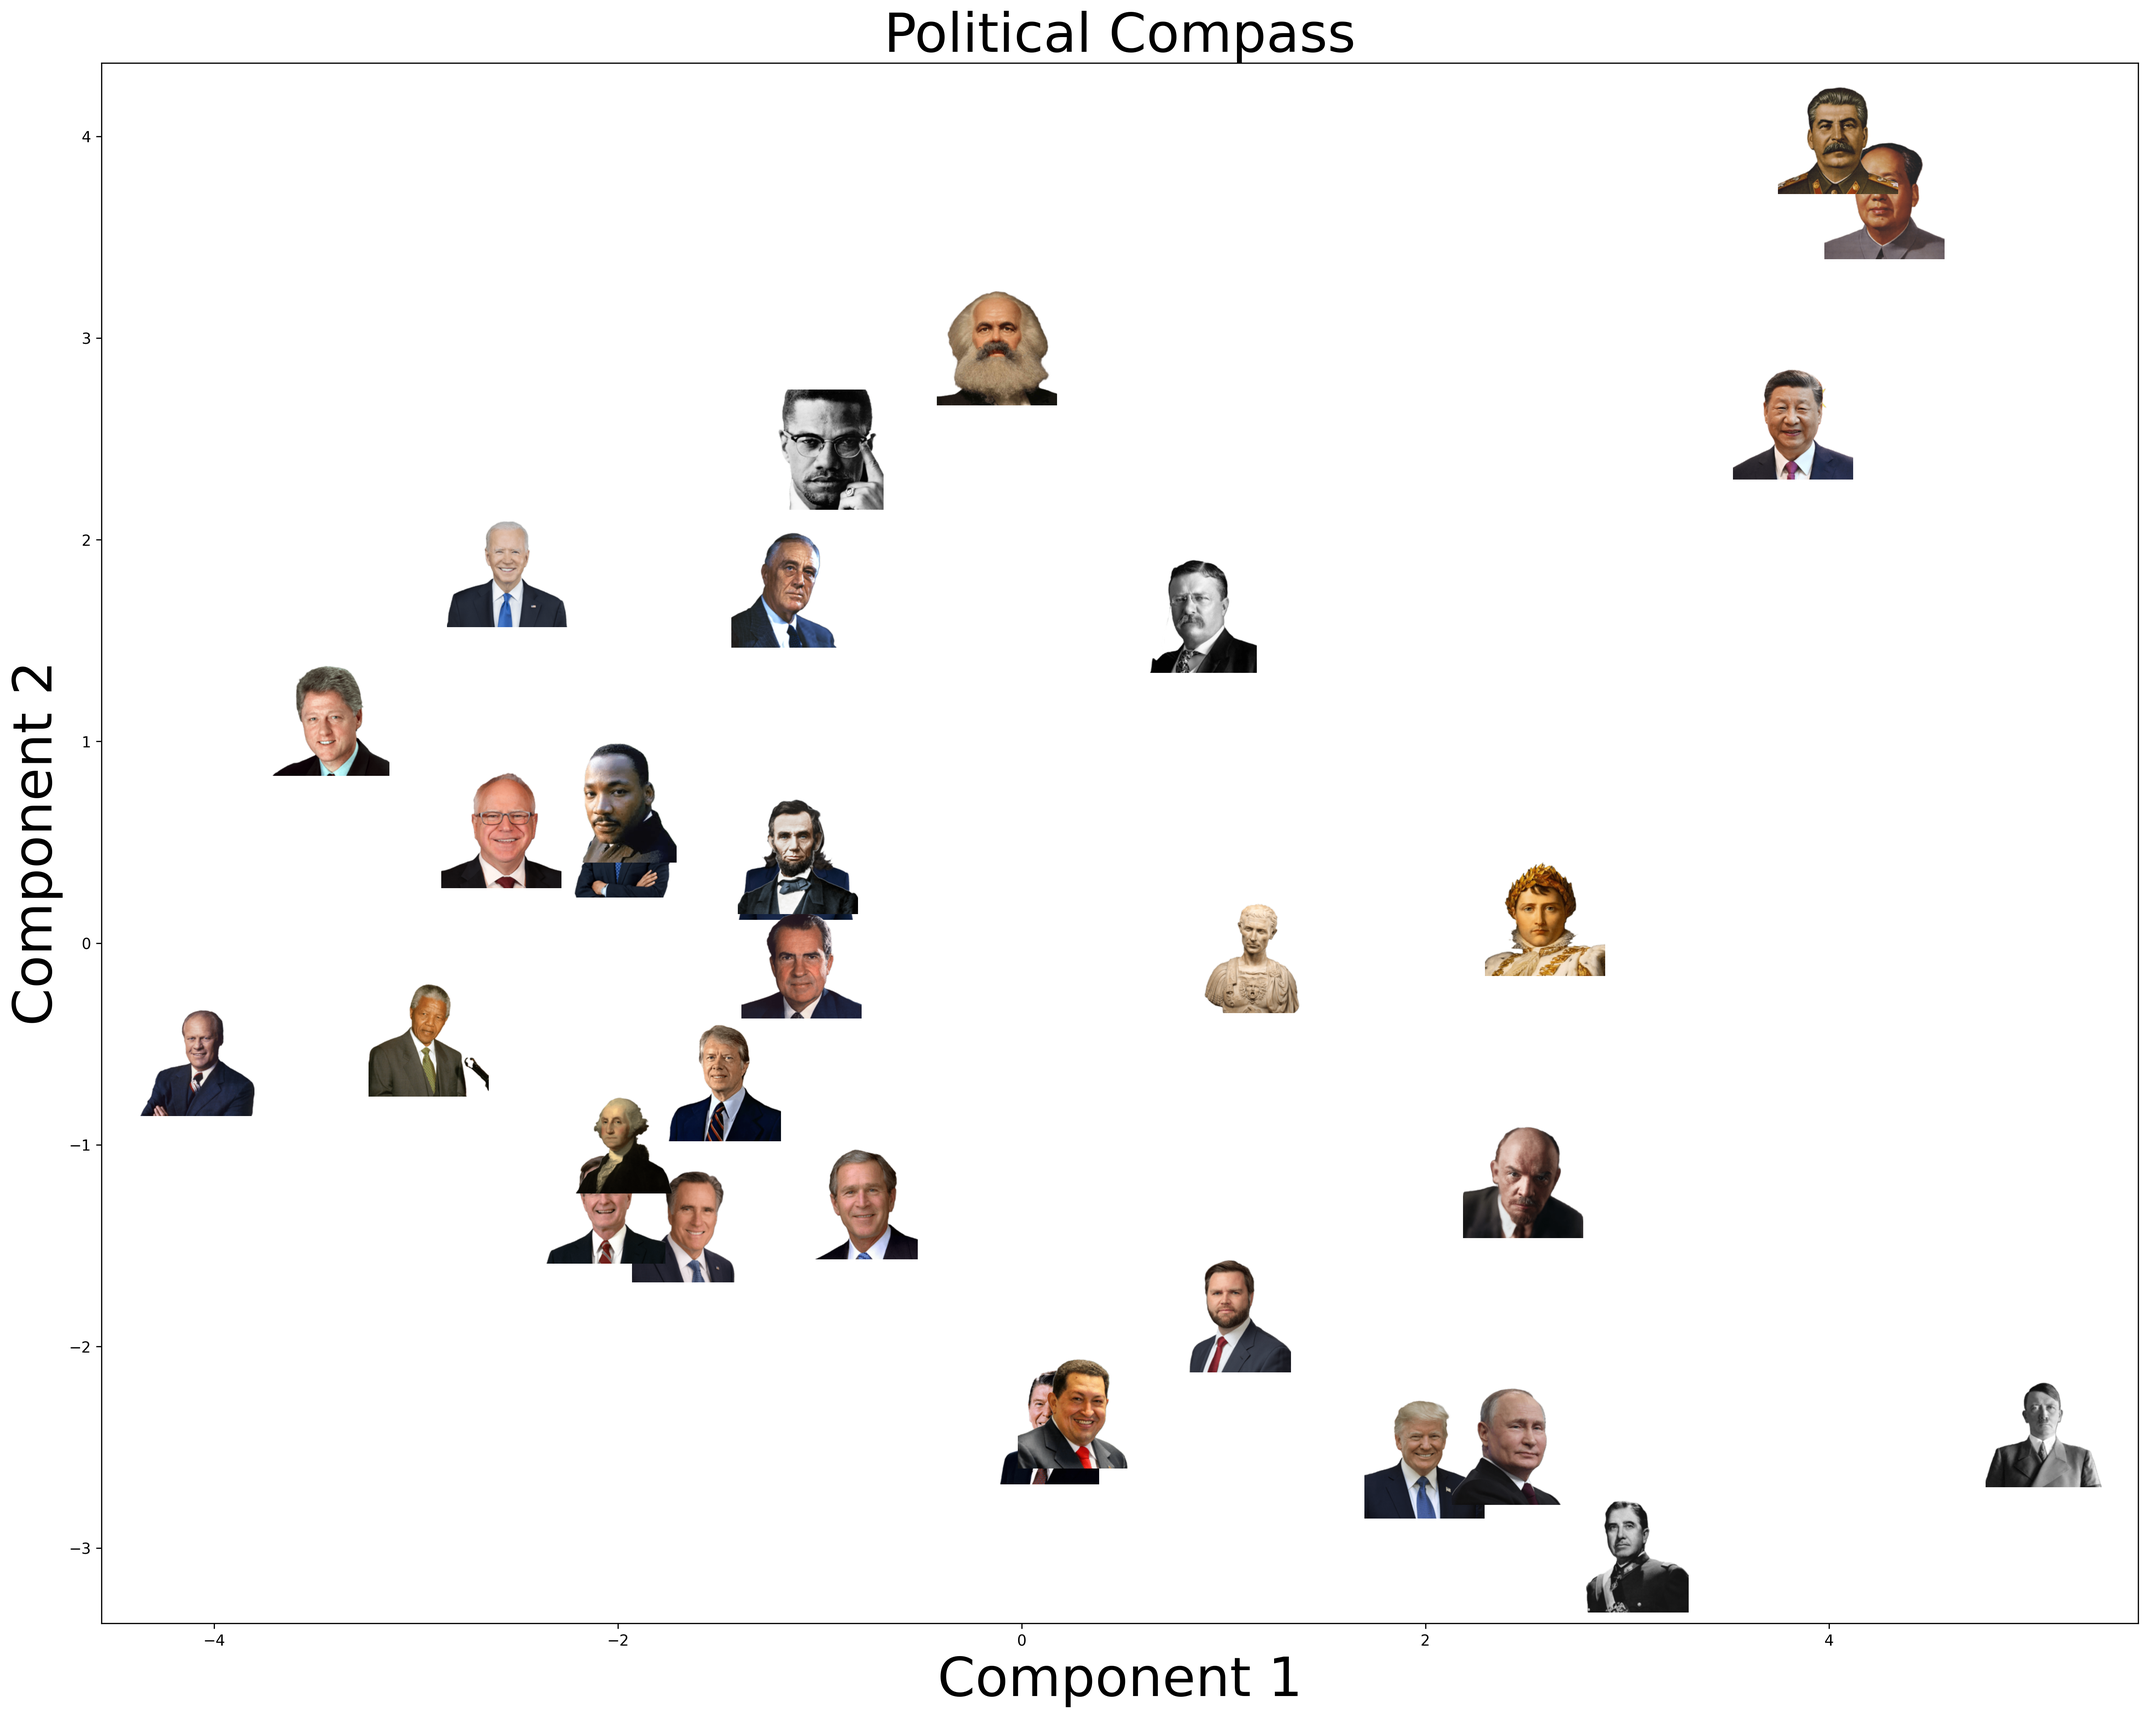
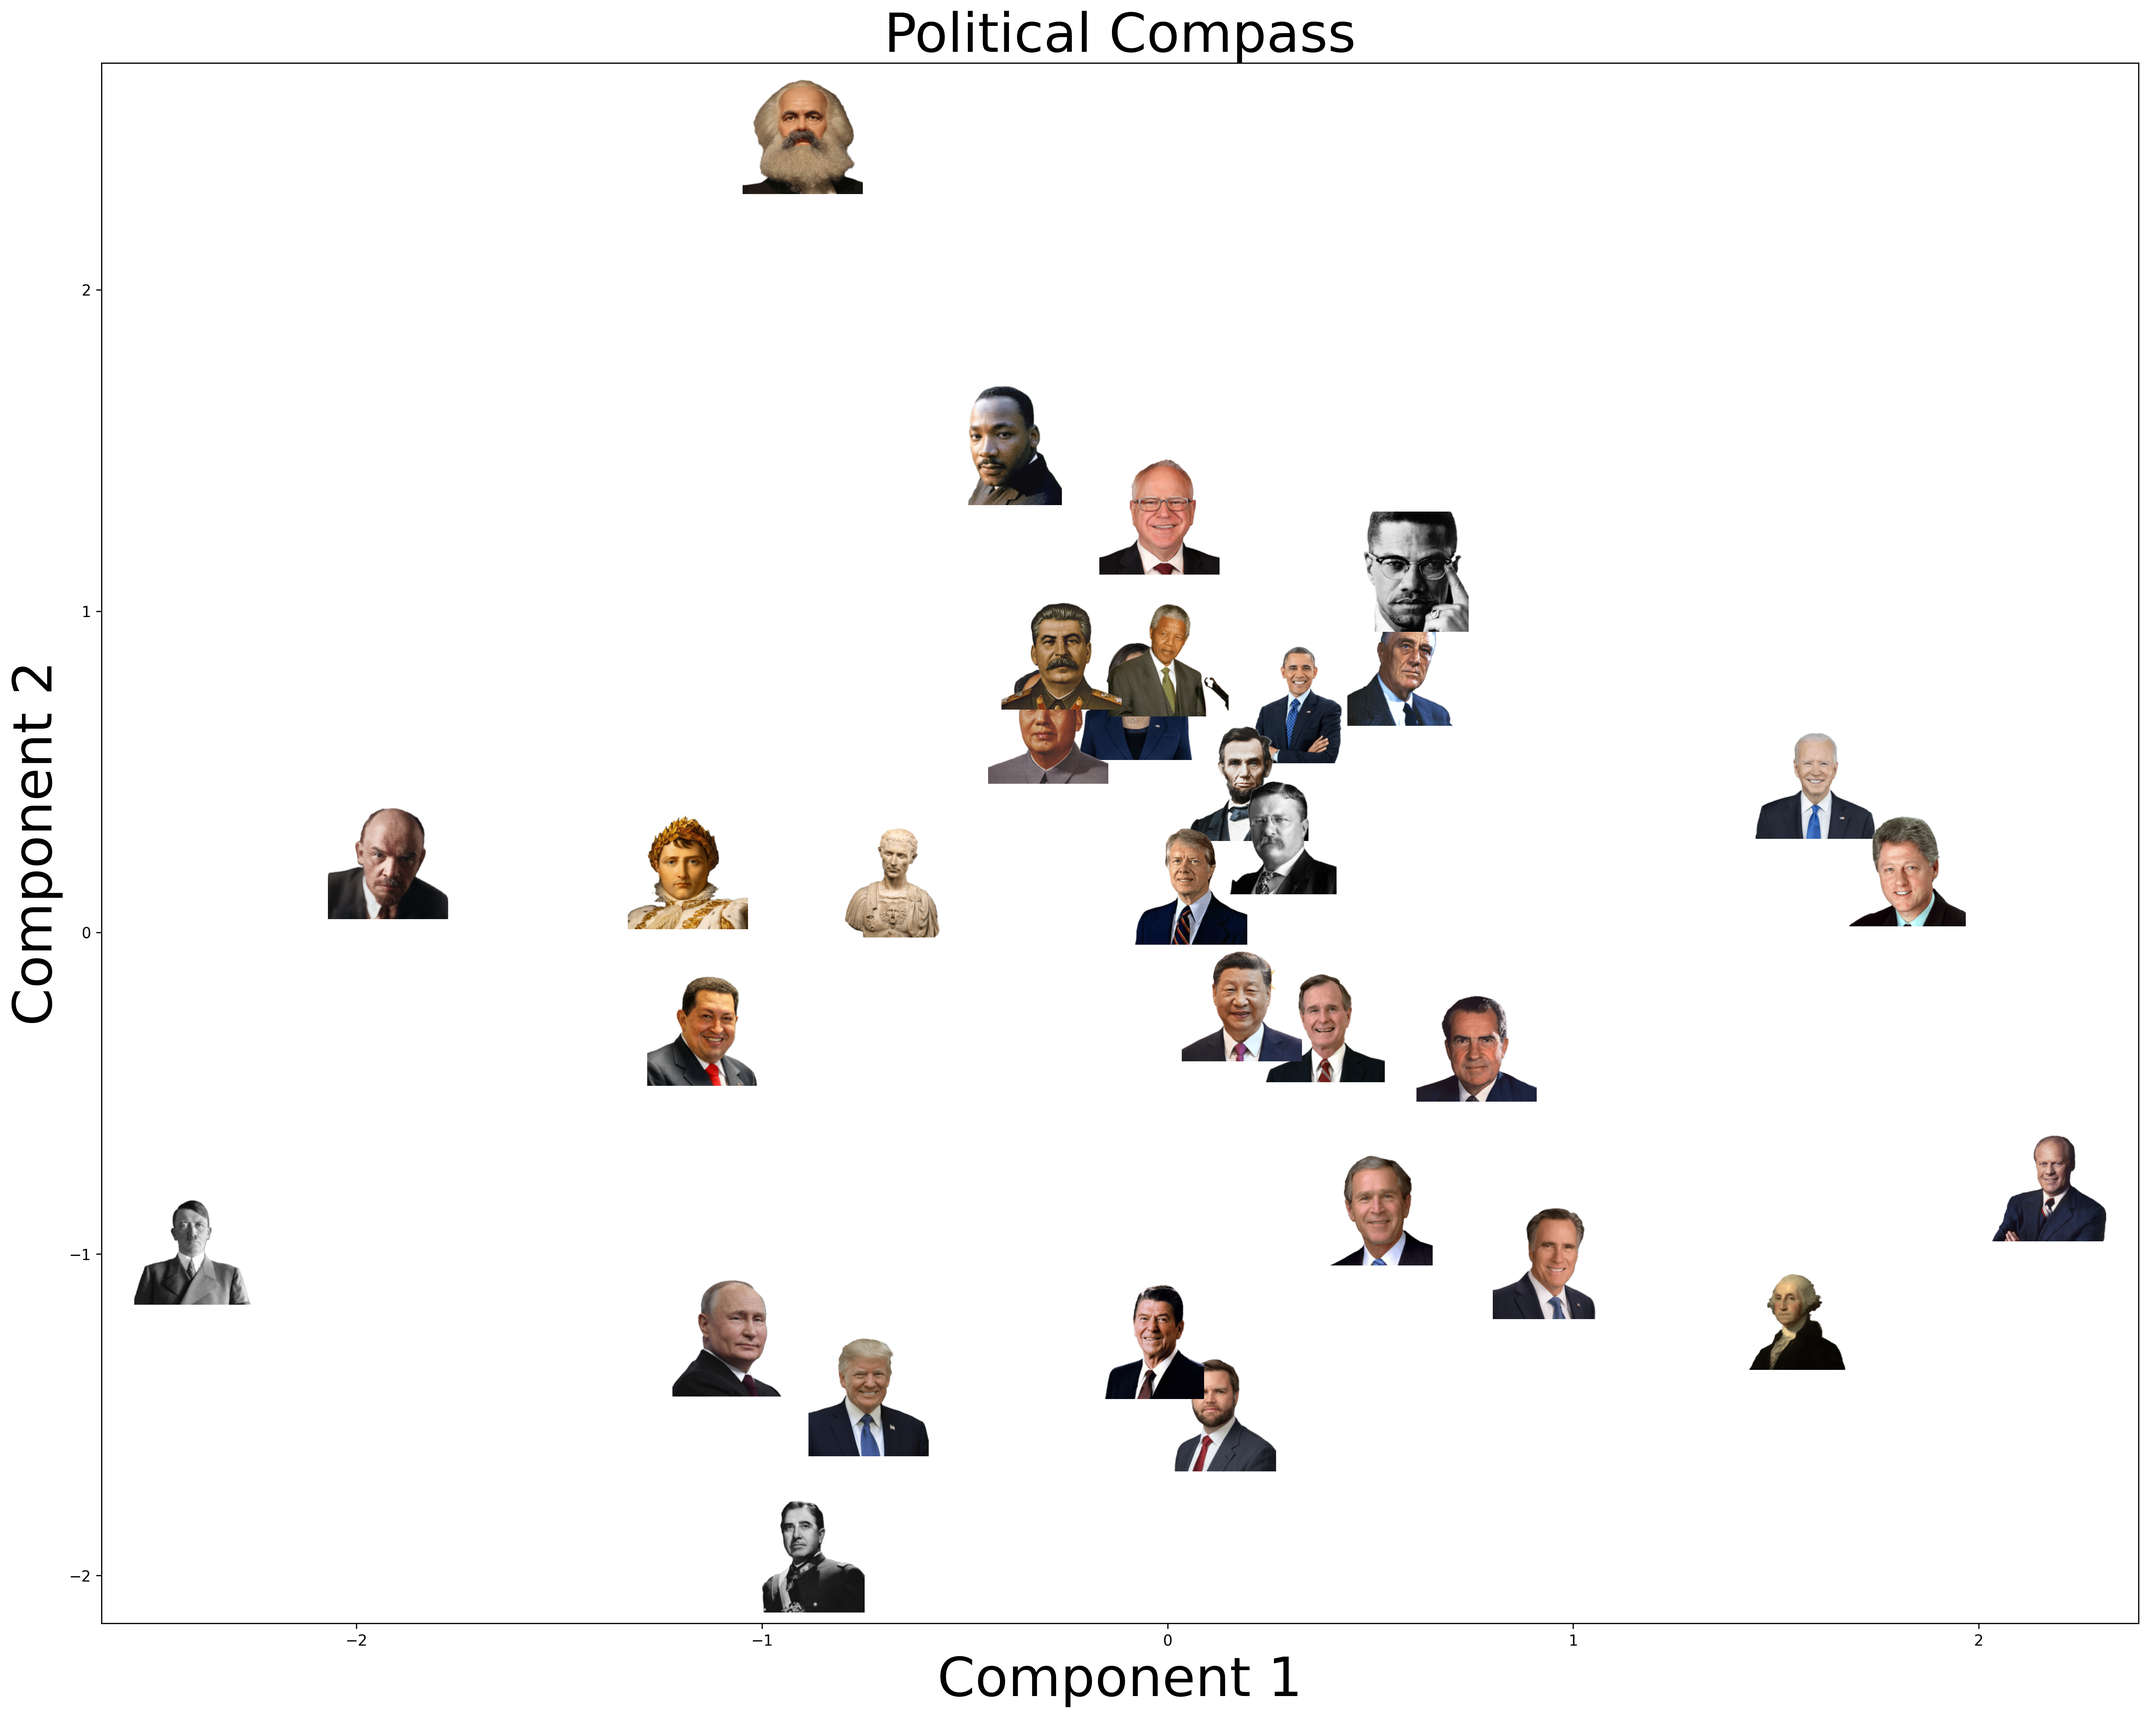
refractored code and switch to ICA decomp

diff --git a/index.html b/index.html
@@ -25,7 +25,7 @@
             .attr("transform", `translate(${width/2},${height/2})`);
 
         const scale = d3.scaleLinear()
-            .domain([-12, 12])
+            .domain([-5, 5])
             .range([-height, height]);
 
         let points;
